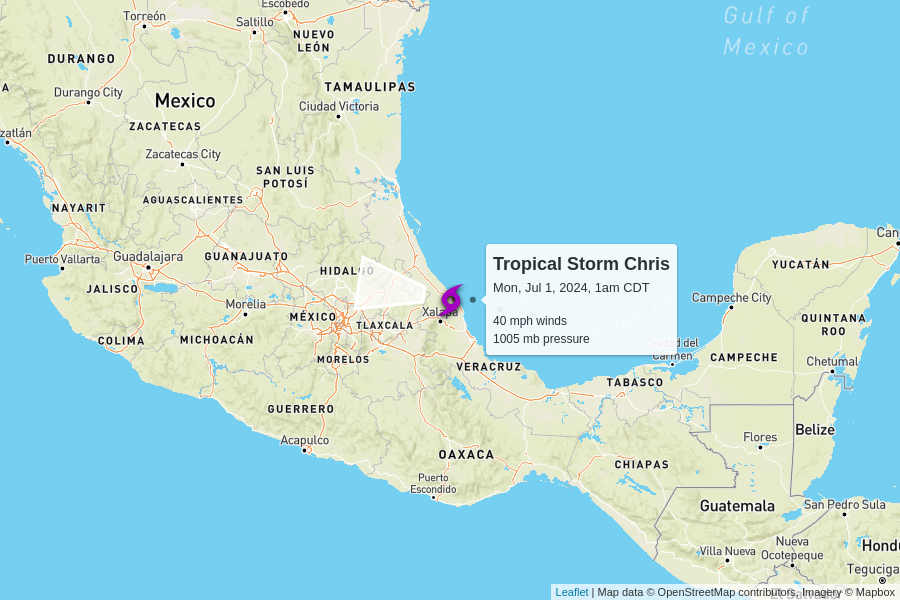
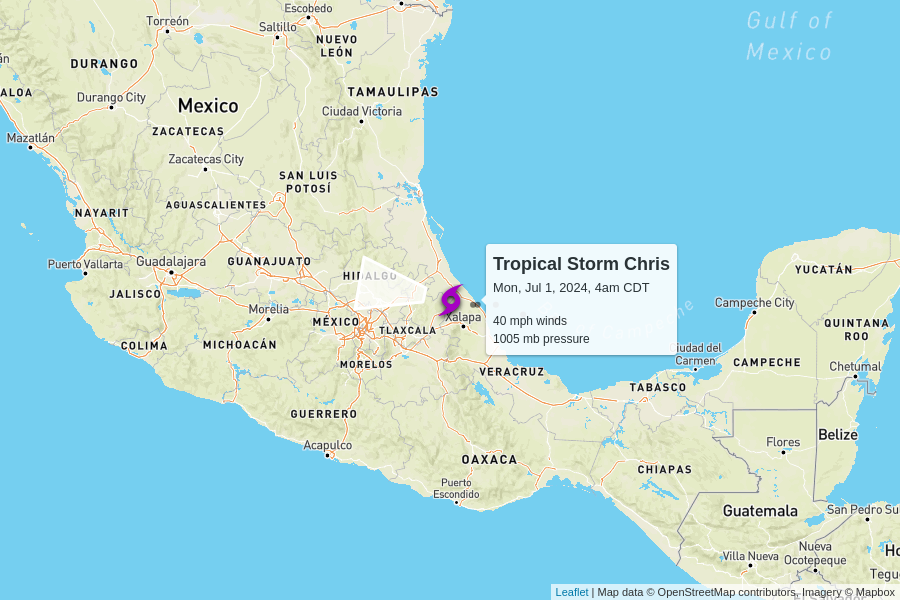
automatic update

Changed region(s): [[0.0, 0.0, 1.0, 1.0], [0.8089, 0.0, 0.9333, 0.12]]

diff --git a/docs/index.html b/docs/index.html
@@ -104,7 +104,7 @@
         <td colspan="6" class="storm category-3" >
           <h2>
             Hurricane Beryl - Category 3
-            <p class="updated">last updated <span data-time>2024-07-01T06:00:00.000Z</span></p>
+            <p class="updated">last updated <span data-time>2024-07-01T09:00:00.000Z</span></p>
           </h2>
         </td>
       </tr>
@@ -119,8 +119,8 @@
       </tr>
       <tr>
         <td class="spacer"></td>
-        <td>120 mph<br>-10 mph since last update</td>
-        <td>965 mb<br>+6 mb since last update</td>
+        <td>120 mph<br>0 mph since last update</td>
+        <td>965 mb<br>0 mb since last update</td>
         <td>
           20 mph to the west
           <br/>
@@ -148,7 +148,7 @@
         <td colspan="6" class="storm category-0" >
           <h2>
             Tropical Storm Chris
-            <p class="updated">last updated <span data-time>2024-07-01T06:00:00.000Z</span></p>
+            <p class="updated">last updated <span data-time>2024-07-01T09:00:00.000Z</span></p>
           </h2>
         </td>
       </tr>
@@ -166,7 +166,7 @@
         <td>40 mph<br>0 mph since last update</td>
         <td>1005 mb<br>0 mb since last update</td>
         <td>
-          13 mph to the west
+          12 mph to the west
           <br/>
           <span style="display: inline-block; font-size: 1.5em; transform: rotate(280deg);">↑</span>
         </td>
